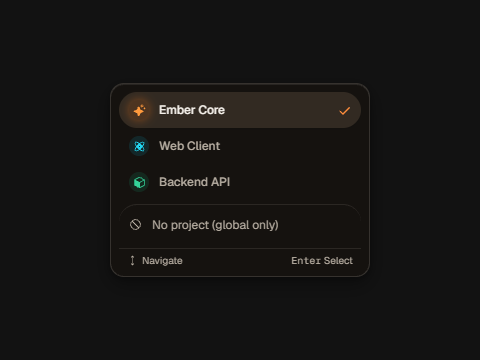
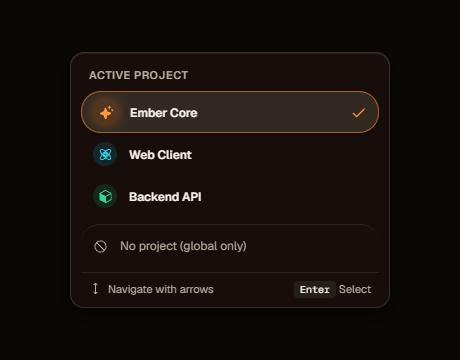
docs: adjust layout to full-width images for crisp readability

diff --git a/README.md b/README.md
@@ -22,7 +22,7 @@
 ---
 
 <p align="center">
-  <img src="docs/media/refine-slack.gif" width="94%" alt="Ember in action refining a Slack message in-place">
+  <img src="docs/media/refine-slack.gif" width="100%" alt="Ember in action refining a Slack message in-place">
 </p>
 
 You know that clumsy message, that rambling prompt you keep editing, or that rough commit note? Select it, hit your shortcut, and Ember cleans it up directly where your cursor is.
@@ -36,7 +36,7 @@ No window switching. No copy-paste dance. No lost focus.
 Ember adapts its transformation engine according to your intent:
 
 <p align="center">
-  <img src="docs/media/settings-refining-dark.png" width="94%" alt="Ember Refining Modes and Extended Thinking">
+  <img src="docs/media/settings-refining-dark.png" width="100%" alt="Ember Refining Modes and Extended Thinking">
 </p>
 
 - **Fix:** Corrects spelling, grammar, accents, and punctuation while strictly preserving structure and tone.
@@ -47,24 +47,26 @@ Ember adapts its transformation engine according to your intent:
 
 ## Projects & Knowledge Context
 
-Switch project-specific tone, guidelines, and vocabulary on the fly:
+Switch project-specific tone, guidelines, and vocabulary on the fly without polluting prompts or leaking private keys:
 
 <p align="center">
-  <img src="docs/media/settings-projects-dark.png" width="58%" alt="Ember Projects Configuration">
-  &nbsp;
-  <img src="docs/media/picker-dark.png" width="36%" alt="Ember Project Picker Popup">
+  <img src="docs/media/settings-projects-dark.png" width="100%" alt="Ember Projects Configuration">
 </p>
 
-- **Project Picker:** Press <kbd>Ctrl+Shift+P</kbd> to bring up a lightweight, cursor-anchored project switcher.
-- **Distilled Rules:** Automatically digests conventions from `CLAUDE.md`, `AGENTS.md`, or `.cursorrules` to retain domain jargon without polluting prompts or leaking private keys.
-- **Custom Accents & Icons:** Visual indicator reflects active project color on the ambient orb and tray.
+<p align="center">
+  <img src="docs/media/picker-dark.png" width="340px" alt="Ember Project Picker Popup">
+</p>
+
+- **Project Picker:** Press <kbd>Ctrl+Shift+P</kbd> to open a fast, keyboard-navigable popup right by your cursor.
+- **Distilled Rules:** Automatically digests conventions from `CLAUDE.md`, `AGENTS.md`, or `.cursorrules` to retain domain jargon without prompt injection risks.
+- **Custom Accents & Icons:** Dedicated colors and icons reflect active projects on the ambient orb and tray icon.
 
 ---
 
 ## Terminal & CLI Workflow
 
 <p align="center">
-  <img src="docs/media/refine-terminal-claude-code.gif" width="94%" alt="Ember refining a prompt in Claude Code terminal">
+  <img src="docs/media/refine-terminal-claude-code.gif" width="100%" alt="Ember refining a prompt in Claude Code terminal">
 </p>
 
 When working in terminals (Windows Terminal, PowerShell, CMD, Alacritty, WezTerm, Warp, or CLI tools like Claude Code):
@@ -77,7 +79,7 @@ When working in terminals (Windows Terminal, PowerShell, CMD, Alacritty, WezTerm
 ## Customization & Shortcuts
 
 <p align="center">
-  <img src="docs/media/settings-shortcuts-dark.png" width="94%" alt="Interactive Shortcut Recorder">
+  <img src="docs/media/settings-shortcuts-dark.png" width="100%" alt="Interactive Shortcut Recorder">
 </p>
 
 - **Interactive Hotkey Recorder:** Configurable slots for Main refinement, direct Fix, direct Rebuild, and Project Picker.
@@ -86,14 +88,18 @@ When working in terminals (Windows Terminal, PowerShell, CMD, Alacritty, WezTerm
 
 ---
 
-## Themes: Dark & Cream
+## Native Dark & Cream Themes
 
-Ember is designed to look native and refined across both dark and light desktop setups:
+Ember is built to blend seamlessly with both dark and light desktop setups:
 
+### Dark Theme (Default)
 <p align="center">
-  <img src="docs/media/settings-providers-dark.png" width="48%" alt="Ember Settings in Dark Theme">
-  &nbsp;
-  <img src="docs/media/settings-providers-cream.png" width="48%" alt="Ember Settings in Cream Theme">
+  <img src="docs/media/settings-providers-dark.png" width="100%" alt="Ember Settings in Dark Theme">
+</p>
+
+### Cream Theme (Light)
+<p align="center">
+  <img src="docs/media/settings-providers-cream.png" width="100%" alt="Ember Settings in Cream Theme">
 </p>
 
 ---
